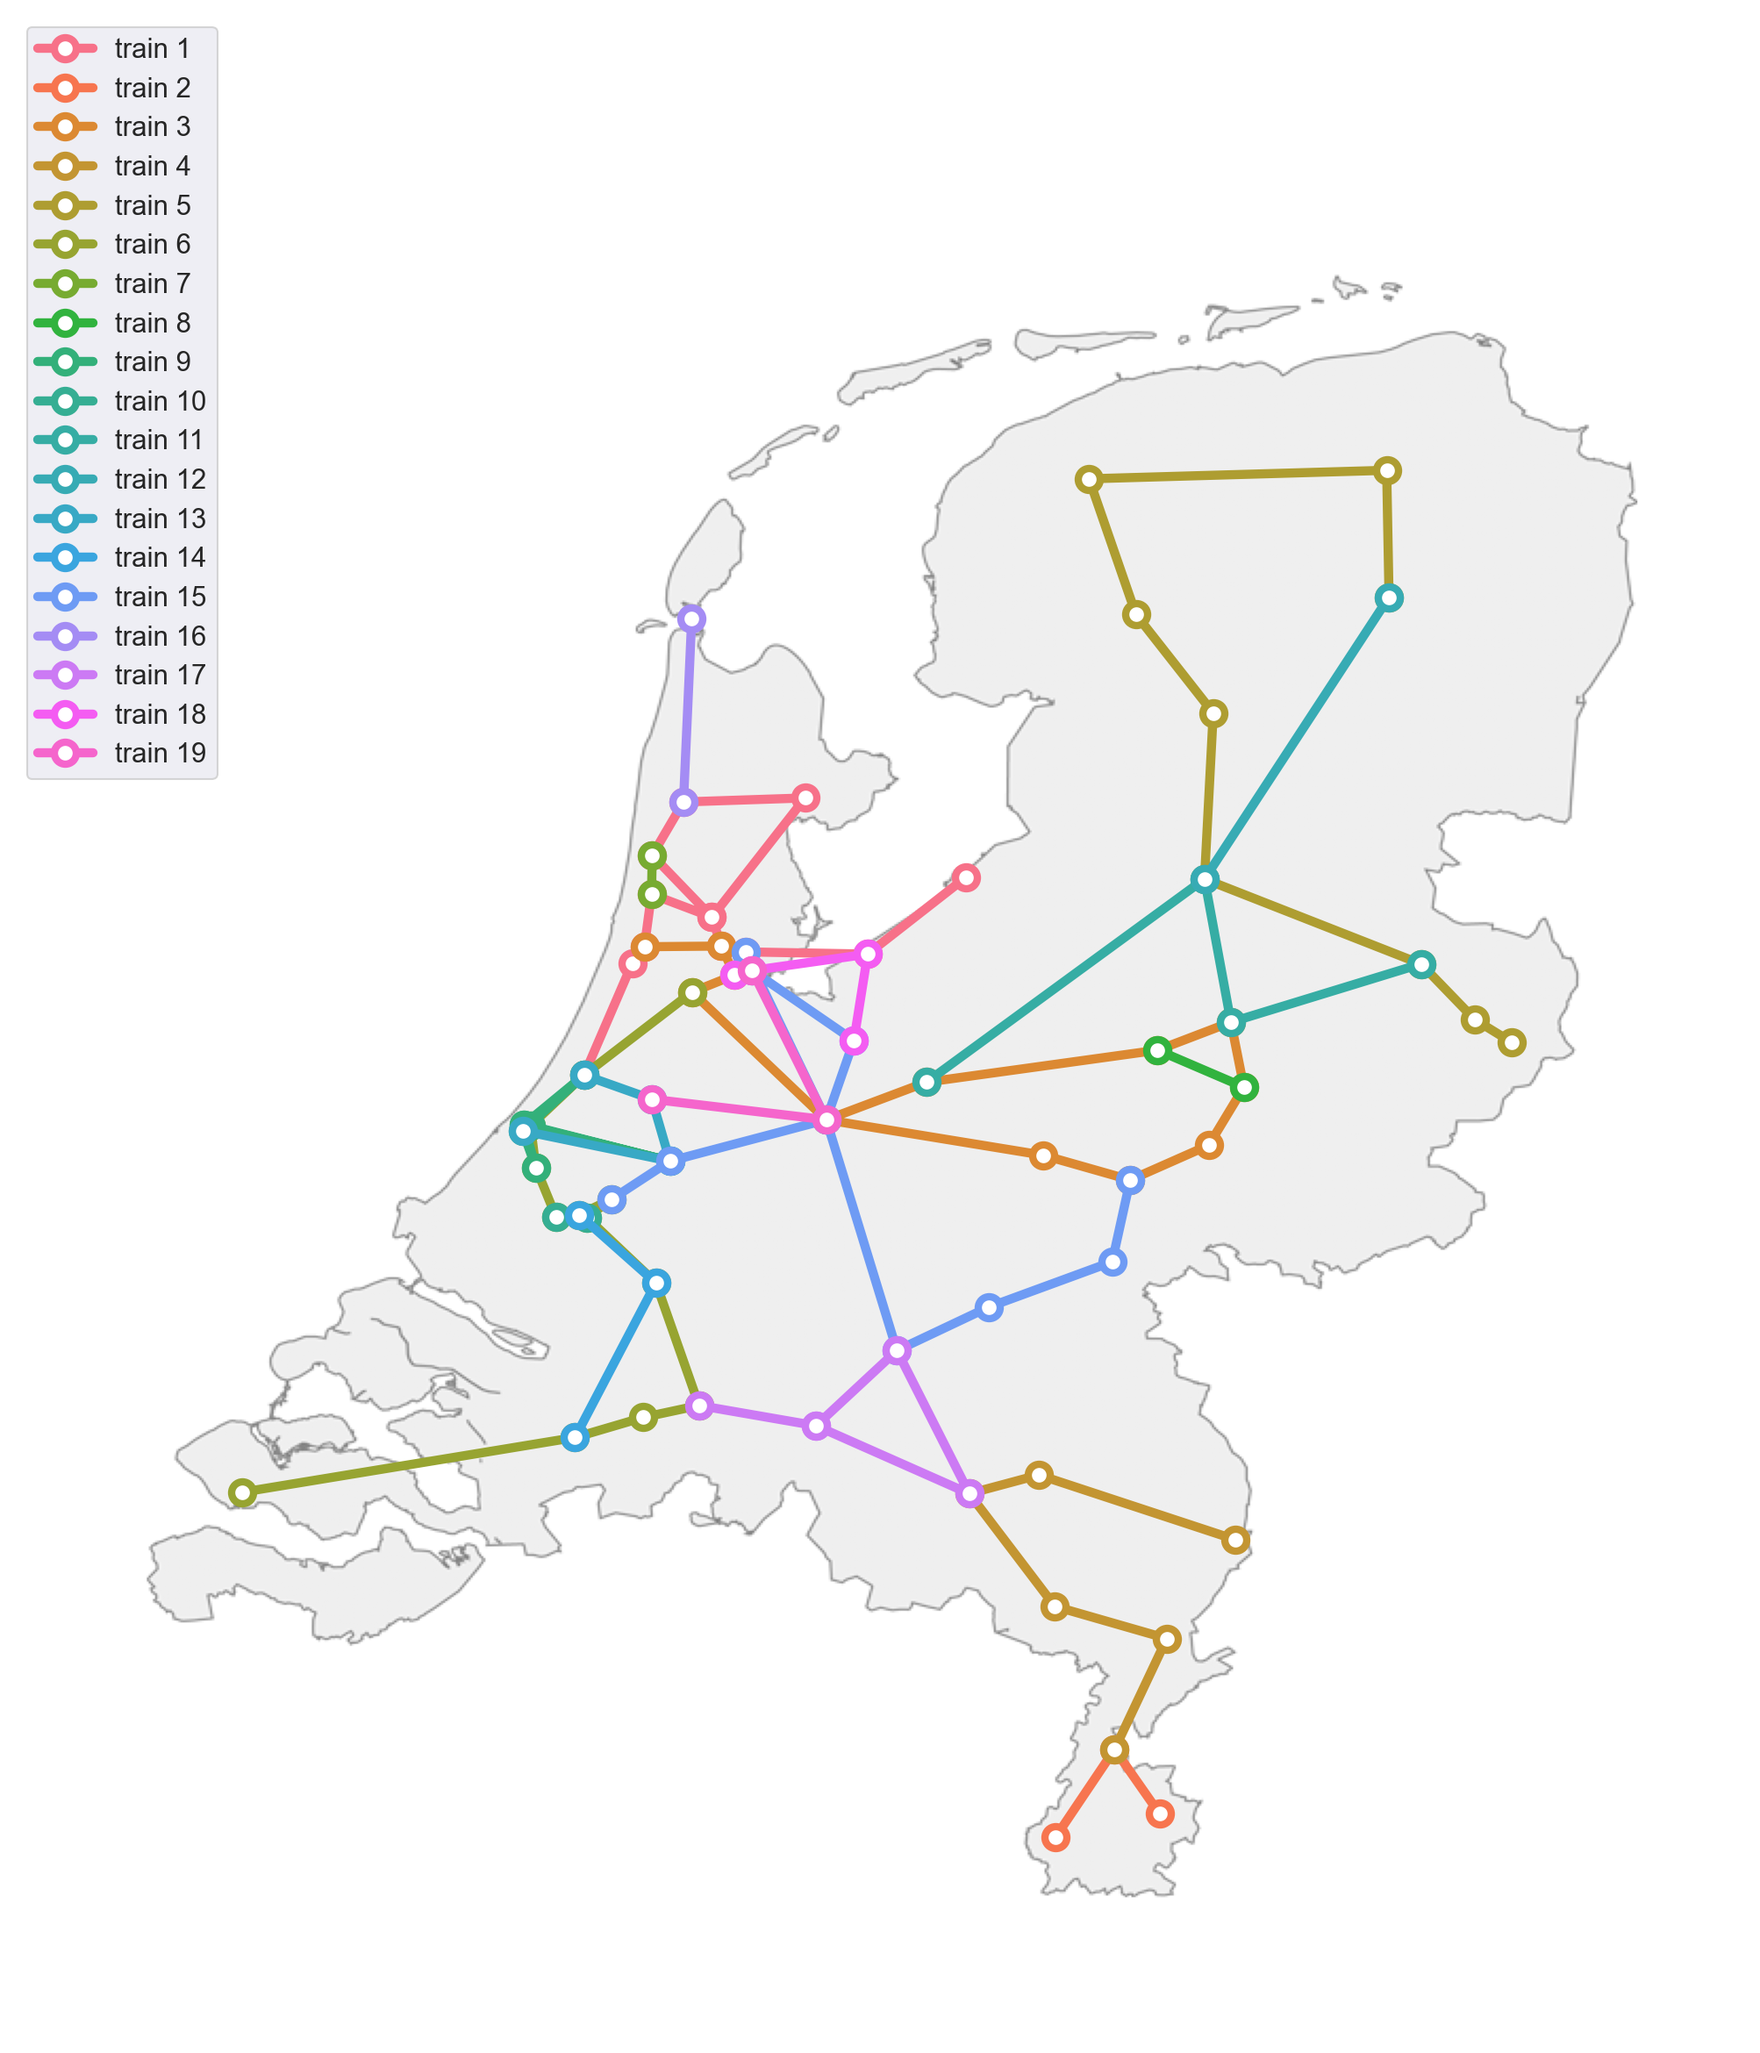
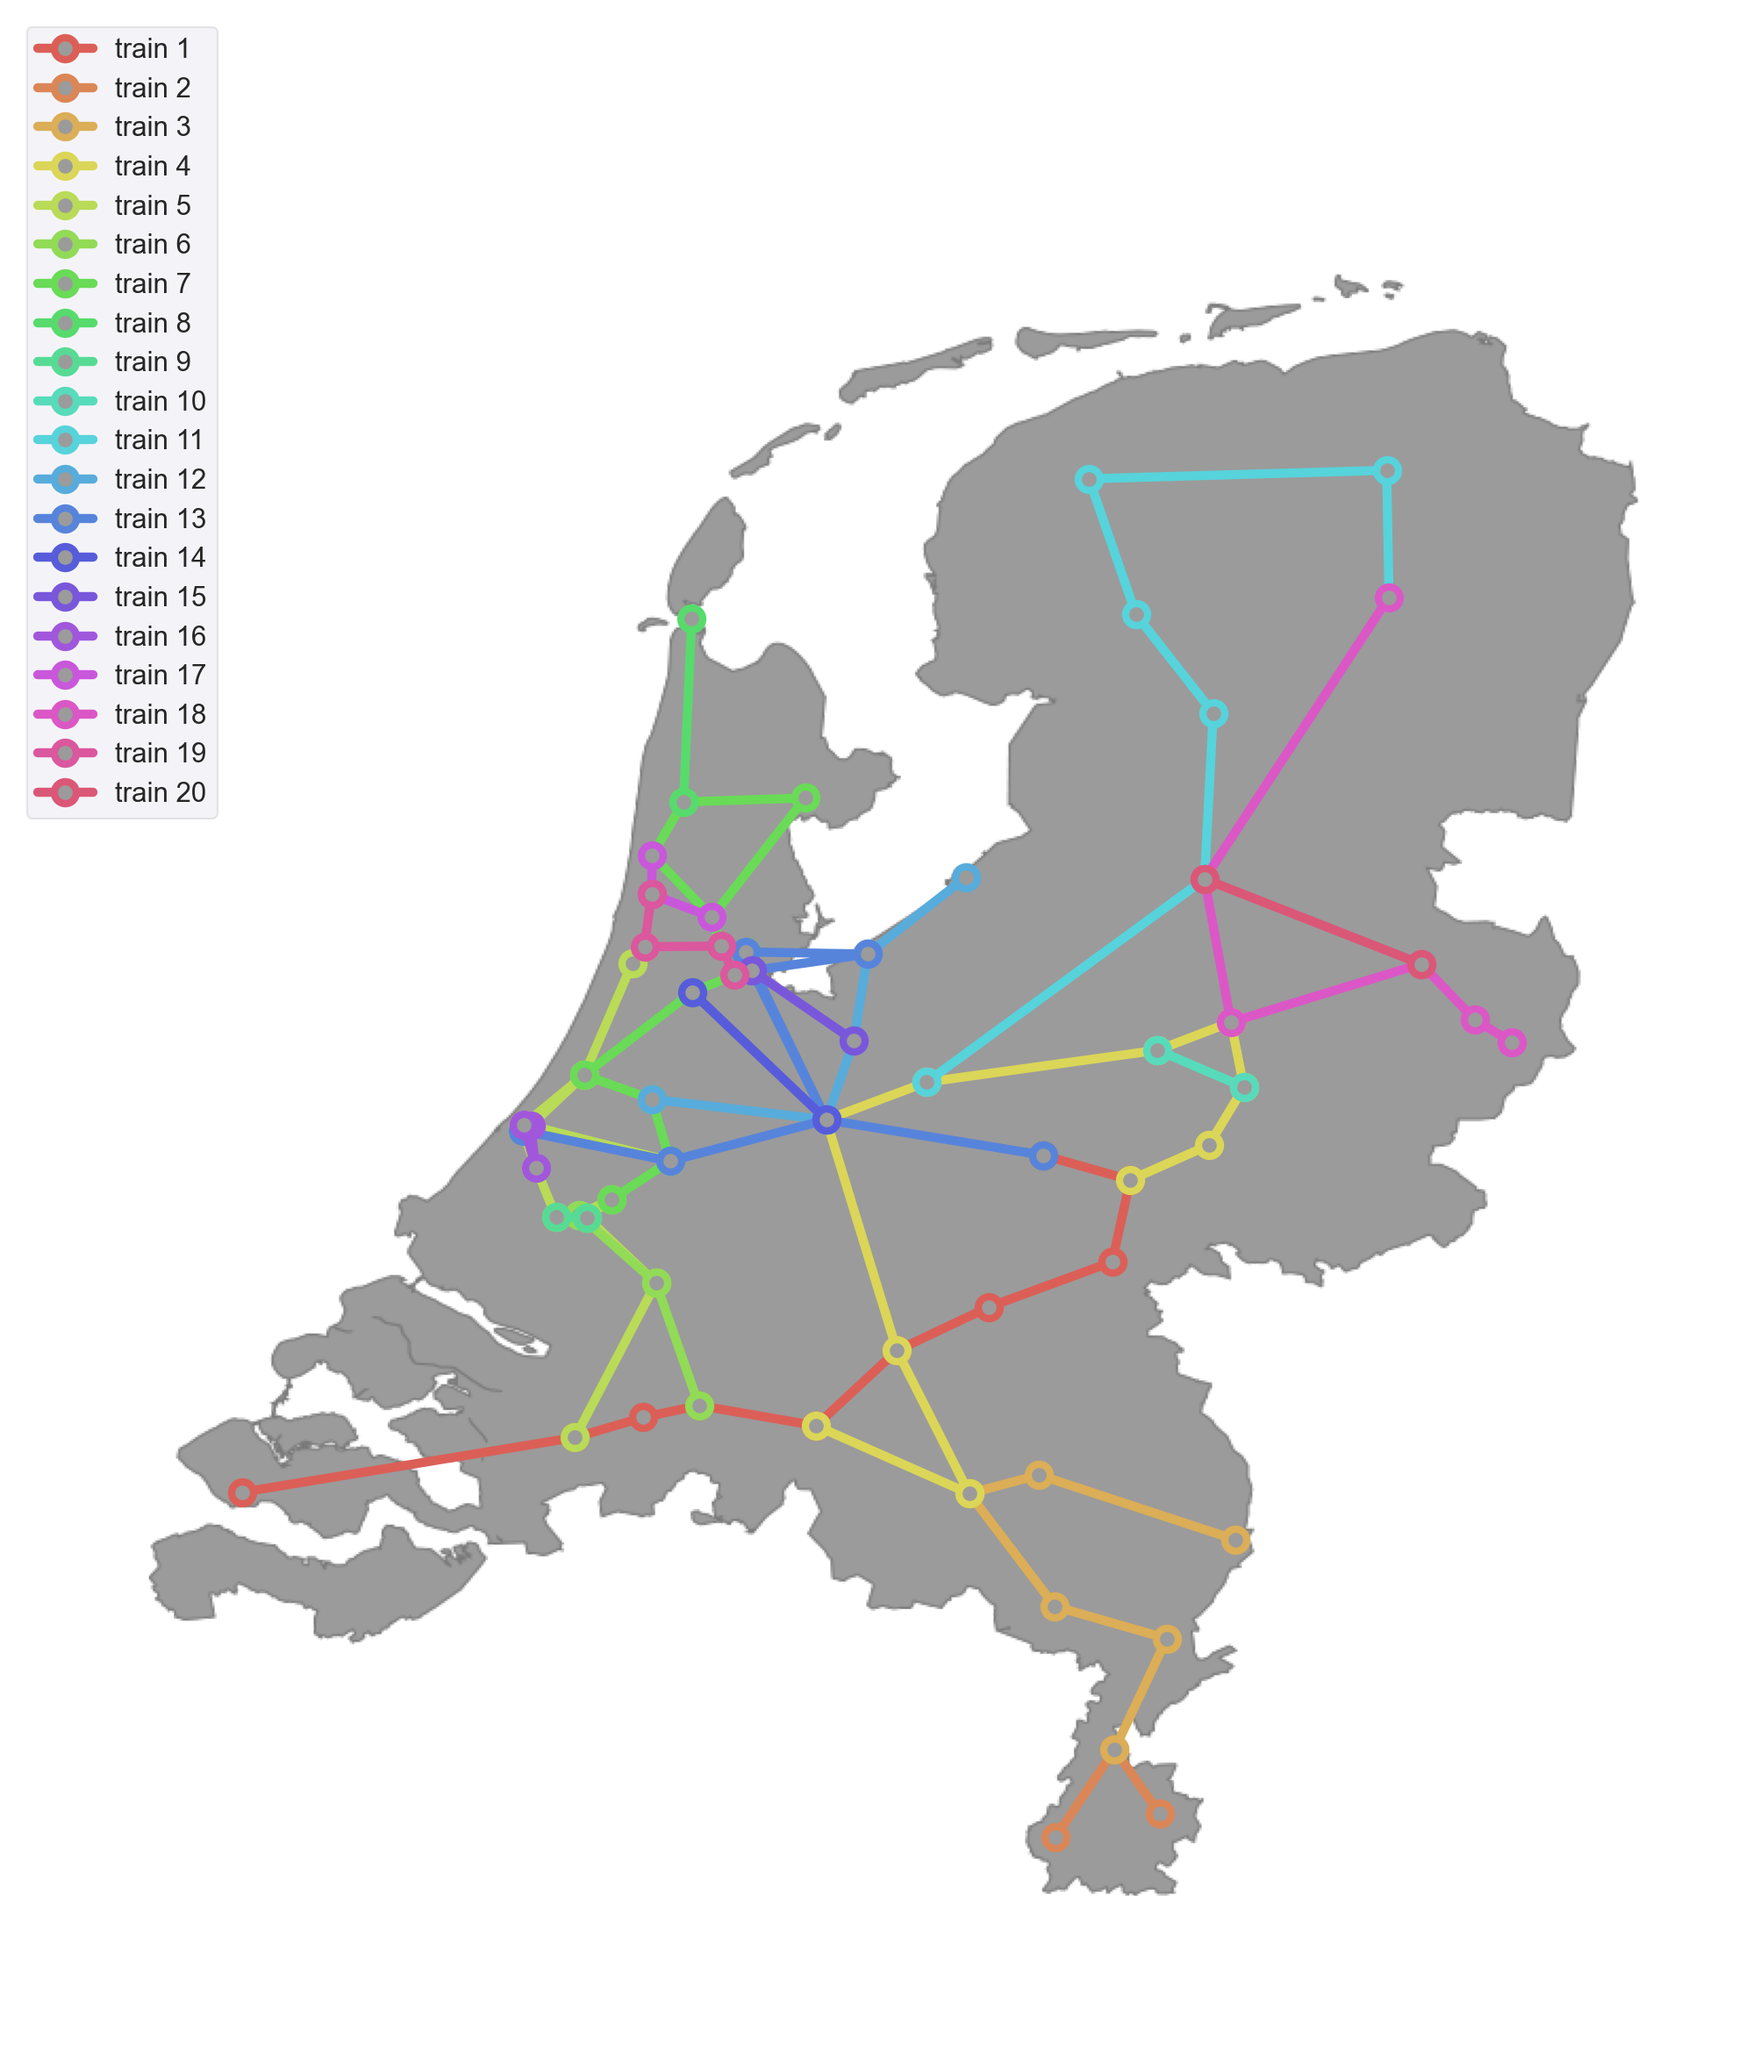
Plaatjes toegevoegd in Images

Changed region(s): [[0.0618, 0.1248, 0.9272, 0.9359], [0.0, 0.0, 0.1236, 0.4056], [0.4327, 0.1872, 0.4945, 0.2184]]

diff --git a/codes/trials/graph.py b/codes/trials/graph.py
@@ -5,20 +5,21 @@ import numpy as np
 import plotly.graph_objects as go
 from matplotlib.animation import FuncAnimation
 from IPython import display
+from IPython.display import HTML
+import matplotlib.animation as animation
+from celluloid import Camera
+import ffmpeg
 
 def holland_graph(path, stations_dict: dict, bbox):
     # load the map into the graph
-    # map = plt.imread(path / "data" / "holland.png")
-    map = plt.imread(path / "data" / "Kaart_NL_grijs.png")
+    map = plt.imread(path / "data" / "Kaart_NL_donkergrijs.png")
 
     fig, ax = plt.subplots(figsize=(17, 20))  
     ax.set_xlim(bbox[0], bbox[1])
     ax.set_ylim(bbox[2], bbox[3])
 
-    
-     
     # load colors from seaborn color palette
-    line_colors = sns.color_palette("husl", 20)
+    line_colors = sns.color_palette("hls", 20)
     colors = iter(line_colors)
     
     # plot line and markers
@@ -31,17 +32,74 @@ def holland_graph(path, stations_dict: dict, bbox):
             marker="o",
             markersize=12,
             markeredgewidth=4,
-            markerfacecolor='w',
+            markerfacecolor='#9B9B9B',
             label=key)
      
     ax.imshow(map, zorder=0, extent = bbox, aspect="auto") # kaart inladen order(onder boven)
-    ax.legend(loc=2, prop={'size': 15})
+    ax.legend(loc=2, prop={'size': 15}, fancybox=True, framealpha=0.5)
     
     plt.axis("off")
     # plt.title("Holland Graph", fontsize=60)
     
     # fig.savefig(path / "data" / "holland_graph.png", bbox_inches="tight", dpi=350)
-    fig.savefig(path / "data" / "Kaart_NL_grijs_graph.png", bbox_inches="tight", dpi=150)
+    fig.savefig(path / "data" / "Kaart_NL_grijs_graph.png", bbox_inches="tight", dpi=150, transparent=True)
 
-# https://matplotlib.org/basemap/users/examples.html
-# https://plotly.com/python/lines-on-maps/
+# def fun(i):
+#     y = np.sin(i)
+#     return y
+ 
+
+
+def holland_animation(path, stations_dict: dict, bbox):
+    map = plt.imread(path / "data" / "Kaart_NL_grijs.png")
+
+    fig, ax = plt.subplots(figsize=(17, 20))  
+    camera = Camera(fig)
+
+    ax.set_xlim(bbox[0], bbox[1])
+    ax.set_ylim(bbox[2], bbox[3])
+
+    # load colors from seaborn color palette
+    line_colors = sns.color_palette("husl", 20)
+    colors = iter(line_colors)
+    
+    
+    # ax.imshow(map, zorder=0, extent = bbox, aspect="auto") # kaart inladen order(onder boven)
+   
+         # plot line and markers
+    for key in stations_dict:
+        ax.plot(stations_dict[key].y,
+            stations_dict[key].x,
+            zorder=1,
+            linewidth=5,
+            color=next(colors),
+            marker="o",
+            markersize=12,
+            markeredgewidth=4,
+            markerfacecolor='w',
+            label=key,
+            )
+        ax.imshow(map, zorder=0, extent = bbox, aspect="auto") # kaart inladen order(onder boven)
+        
+        camera.snap()
+    
+    animation = camera.animate(interval = 600, repeat = True)
+  
+    # HTML(animation.to_html5_video)
+
+    # f = path / "data" / "Animatie_graph.mp4"
+    # writervideo = animation.FFMpegWriter(fps=60) 
+    # animation.save(f, writer=writervideo, bbox_inches="tight")
+
+    # animation.save(path / "data" / "Animatie_graph.mp4", bbox_inches="tight")
+    
+    ax.legend(loc=2, prop={'size': 15})
+    
+    plt.axis("off")
+    # plt.title("Holland Graph", fontsize=60)
+    plt.show()
+    
+    # fig.savefig(path / "data" / "holland_graph.png", bbox_inches="tight", dpi=350)
+    # fig.savefig(path / "data" / "Animatie_graph.png", bbox_inches="tight", dpi=150, transparent=True)
+
+   

diff --git a/codes/trials/animation_trial.py b/codes/trials/animation_trial.py
@@ -1,0 +1,52 @@
+import matplotlib.animation as animation
+import matplotlib.pyplot as plt
+import numpy as np
+ 
+ 
+# creating a blank window
+# for the animation
+fig = plt.figure()
+axis = plt.axes(xlim =(-50, 50),
+                ylim =(-50, 50))
+ 
+line, = axis.plot([], [], lw = 2)
+ 
+# what will our line dataset
+# contain?
+def init():
+    line.set_data([], [])
+    return line,
+ 
+# initializing empty values
+# for x and y co-ordinates
+xdata, ydata = [], []
+ 
+# animation function
+def animate(i):
+    # t is a parameter which varies
+    # with the frame number
+    t = 0.1 * i
+     
+    # x, y values to be plotted
+    x = t * np.sin(t)
+    y = t * np.cos(t)
+     
+    # appending values to the previously
+    # empty x and y data holders
+    xdata.append(x)
+    ydata.append(y)
+    line.set_data(xdata, ydata)
+     
+    return line,
+ 
+# calling the animation function    
+anim = animation.FuncAnimation(fig, animate,
+                            init_func = init,
+                            frames = 500,
+                            interval = 20,
+                            blit = True)
+
+plt.show()
+ 
+# saves the animation in our desktop
+# anim.save('growingCoil.mp4', writer = 'ffmpeg', fps = 30)

diff --git a/main.py b/main.py
@@ -9,6 +9,7 @@ import pandas as pd
 from pathlib import Path
 from codes.classes.stations import Stations
 from codes.trials.graph import holland_graph
+from codes.trials.graph import holland_animation
 from codes.classes.graph import Graph
 from codes.trials.line_quality import score_calculation
 from codes.algorithms.traveling_salesman_rail import Traveling_Salesman_Rail
@@ -33,6 +34,7 @@ def main():
     # create a graph of all the trajects
     data = {train:stations.data_from_stations(trajects[train]) for train in trajects}
     holland_graph(PATH, data, stations.bbox_limits())
+    holland_animation(PATH, data, stations.bbox_limits())
     
     # calculate the quality of the trajects
     quality = score_calculation([trajects], PATH)

diff --git a/codes/trials/calculations_statespace.py b/codes/trials/calculations_statespace.py
@@ -77,4 +77,10 @@ print('Opdracht 6:', result)
 r = 61
 n = 9
 
-print('State space:', no_order_repetition(r, n)*20)
+print('State space:', order_repetition(r, n)*20)
+
+# State space 2
+r = 13
+n = 61
+
+print('State space:', order_no_repetition(r, n)*20)
